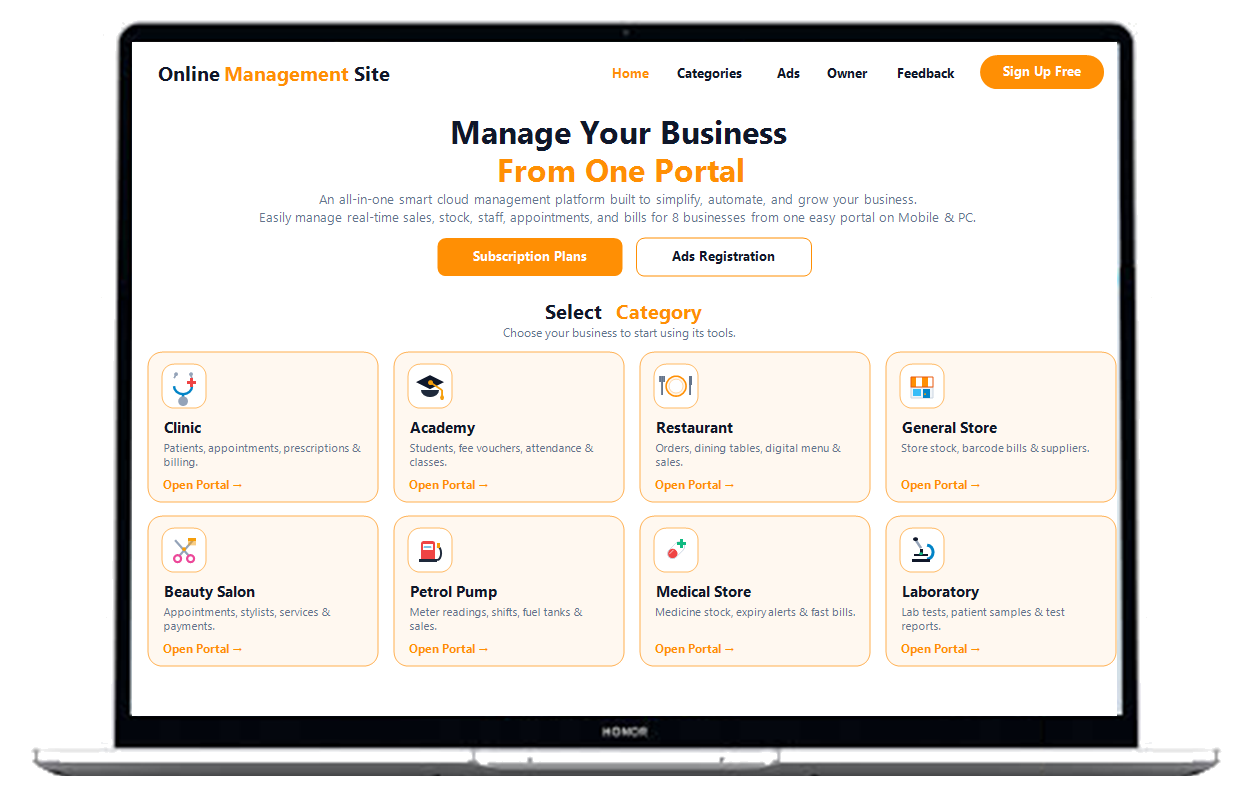
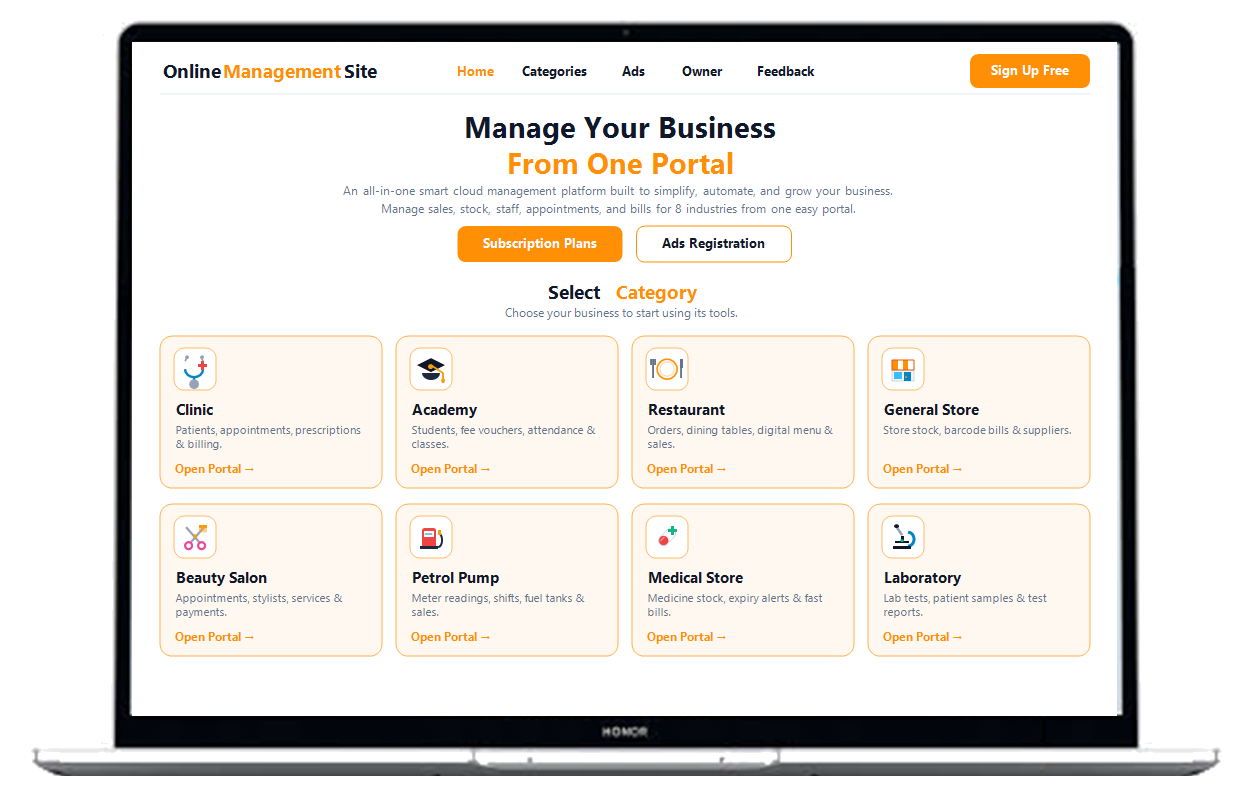
Fix laptop screen symmetry and perfect alignment of website view in devices image

diff --git a/_cat-template.html b/_cat-template.html
@@ -1,4 +1,4 @@
-<!DOCTYPE html>
+<!DOCTYPE html>
 <html lang="en">
 <head>
   <meta charset="UTF-8" />
@@ -65,7 +65,7 @@
         </div>
 
                 <div class="cat-hero-image-wrap">
-          <img src="devices.png?v=20261030NoLaptopShadow" alt="Online Management Site Laptop" class="cat-hero-devices-img" width="725" height="423" loading="eager" />
+          <img src="devices.png?v=20261030SymmetricLaptop" alt="Online Management Site Laptop" class="cat-hero-devices-img" width="725" height="423" loading="eager" />
         </div>
       </div>
     </section>

diff --git a/academy.html b/academy.html
@@ -1,4 +1,4 @@
-<!DOCTYPE html>
+<!DOCTYPE html>
 <html lang="en">
 <head>
   <meta charset="UTF-8" />
@@ -67,7 +67,7 @@
         </div>
 
                 <div class="cat-hero-image-wrap">
-          <img src="devices.png?v=20261030NoLaptopShadow" alt="Online Management Site Laptop" class="cat-hero-devices-img" width="725" height="423" loading="eager" />
+          <img src="devices.png?v=20261030SymmetricLaptop" alt="Online Management Site Laptop" class="cat-hero-devices-img" width="725" height="423" loading="eager" />
         </div>
       </div>
     </section>

diff --git a/beautysalon.html b/beautysalon.html
@@ -1,4 +1,4 @@
-<!DOCTYPE html>
+<!DOCTYPE html>
 <html lang="en">
 <head>
   <meta charset="UTF-8" />
@@ -67,7 +67,7 @@
         </div>
 
                 <div class="cat-hero-image-wrap">
-          <img src="devices.png?v=20261030NoLaptopShadow" alt="Online Management Site Laptop" class="cat-hero-devices-img" width="725" height="423" loading="eager" />
+          <img src="devices.png?v=20261030SymmetricLaptop" alt="Online Management Site Laptop" class="cat-hero-devices-img" width="725" height="423" loading="eager" />
         </div>
       </div>
     </section>

diff --git a/clinic.html b/clinic.html
@@ -1,4 +1,4 @@
-<!DOCTYPE html>
+<!DOCTYPE html>
 <html lang="en">
 <head>
   <meta charset="UTF-8" />
@@ -67,7 +67,7 @@
         </div>
 
                 <div class="cat-hero-image-wrap">
-          <img src="devices.png?v=20261030NoLaptopShadow" alt="Online Management Site Laptop" class="cat-hero-devices-img" width="725" height="423" loading="eager" />
+          <img src="devices.png?v=20261030SymmetricLaptop" alt="Online Management Site Laptop" class="cat-hero-devices-img" width="725" height="423" loading="eager" />
         </div>
       </div>
     </section>

diff --git a/generalstore.html b/generalstore.html
@@ -1,4 +1,4 @@
-<!DOCTYPE html>
+<!DOCTYPE html>
 <html lang="en">
 <head>
   <meta charset="UTF-8" />
@@ -67,7 +67,7 @@
         </div>
 
                 <div class="cat-hero-image-wrap">
-          <img src="devices.png?v=20261030NoLaptopShadow" alt="Online Management Site Laptop" class="cat-hero-devices-img" width="725" height="423" loading="eager" />
+          <img src="devices.png?v=20261030SymmetricLaptop" alt="Online Management Site Laptop" class="cat-hero-devices-img" width="725" height="423" loading="eager" />
         </div>
       </div>
     </section>

diff --git a/laboratory.html b/laboratory.html
@@ -1,4 +1,4 @@
-<!DOCTYPE html>
+<!DOCTYPE html>
 <html lang="en">
 <head>
   <meta charset="UTF-8" />
@@ -67,7 +67,7 @@
         </div>
 
                 <div class="cat-hero-image-wrap">
-          <img src="devices.png?v=20261030NoLaptopShadow" alt="Online Management Site Laptop" class="cat-hero-devices-img" width="725" height="423" loading="eager" />
+          <img src="devices.png?v=20261030SymmetricLaptop" alt="Online Management Site Laptop" class="cat-hero-devices-img" width="725" height="423" loading="eager" />
         </div>
       </div>
     </section>

diff --git a/medicalstore.html b/medicalstore.html
@@ -1,4 +1,4 @@
-<!DOCTYPE html>
+<!DOCTYPE html>
 <html lang="en">
 <head>
   <meta charset="UTF-8" />
@@ -67,7 +67,7 @@
         </div>
 
                 <div class="cat-hero-image-wrap">
-          <img src="devices.png?v=20261030NoLaptopShadow" alt="Online Management Site Laptop" class="cat-hero-devices-img" width="725" height="423" loading="eager" />
+          <img src="devices.png?v=20261030SymmetricLaptop" alt="Online Management Site Laptop" class="cat-hero-devices-img" width="725" height="423" loading="eager" />
         </div>
       </div>
     </section>

diff --git a/petrolpump.html b/petrolpump.html
@@ -1,4 +1,4 @@
-<!DOCTYPE html>
+<!DOCTYPE html>
 <html lang="en">
 <head>
   <meta charset="UTF-8" />
@@ -67,7 +67,7 @@
         </div>
 
                 <div class="cat-hero-image-wrap">
-          <img src="devices.png?v=20261030NoLaptopShadow" alt="Online Management Site Laptop" class="cat-hero-devices-img" width="725" height="423" loading="eager" />
+          <img src="devices.png?v=20261030SymmetricLaptop" alt="Online Management Site Laptop" class="cat-hero-devices-img" width="725" height="423" loading="eager" />
         </div>
       </div>
     </section>

diff --git a/restaurant.html b/restaurant.html
@@ -1,4 +1,4 @@
-<!DOCTYPE html>
+<!DOCTYPE html>
 <html lang="en">
 <head>
   <meta charset="UTF-8" />
@@ -67,7 +67,7 @@
         </div>
 
                 <div class="cat-hero-image-wrap">
-          <img src="devices.png?v=20261030NoLaptopShadow" alt="Online Management Site Laptop" class="cat-hero-devices-img" width="725" height="423" loading="eager" />
+          <img src="devices.png?v=20261030SymmetricLaptop" alt="Online Management Site Laptop" class="cat-hero-devices-img" width="725" height="423" loading="eager" />
         </div>
       </div>
     </section>

diff --git a/index.html b/index.html
@@ -78,7 +78,7 @@
           </div>
           <div class="hero-col hero-col-right">
             <div class="hero-image-wrap">
-              <img src="devices.png?v=20261030WarmOrangeCards" alt="Online Management Site open on Laptop" class="hero-devices-img" width="725" height="423" loading="eager" />
+              <img src="devices.png?v=20261030SymmetricLaptop" alt="Online Management Site open on Laptop" class="hero-devices-img" width="725" height="423" loading="eager" />
             </div>
           </div>
         </div>
